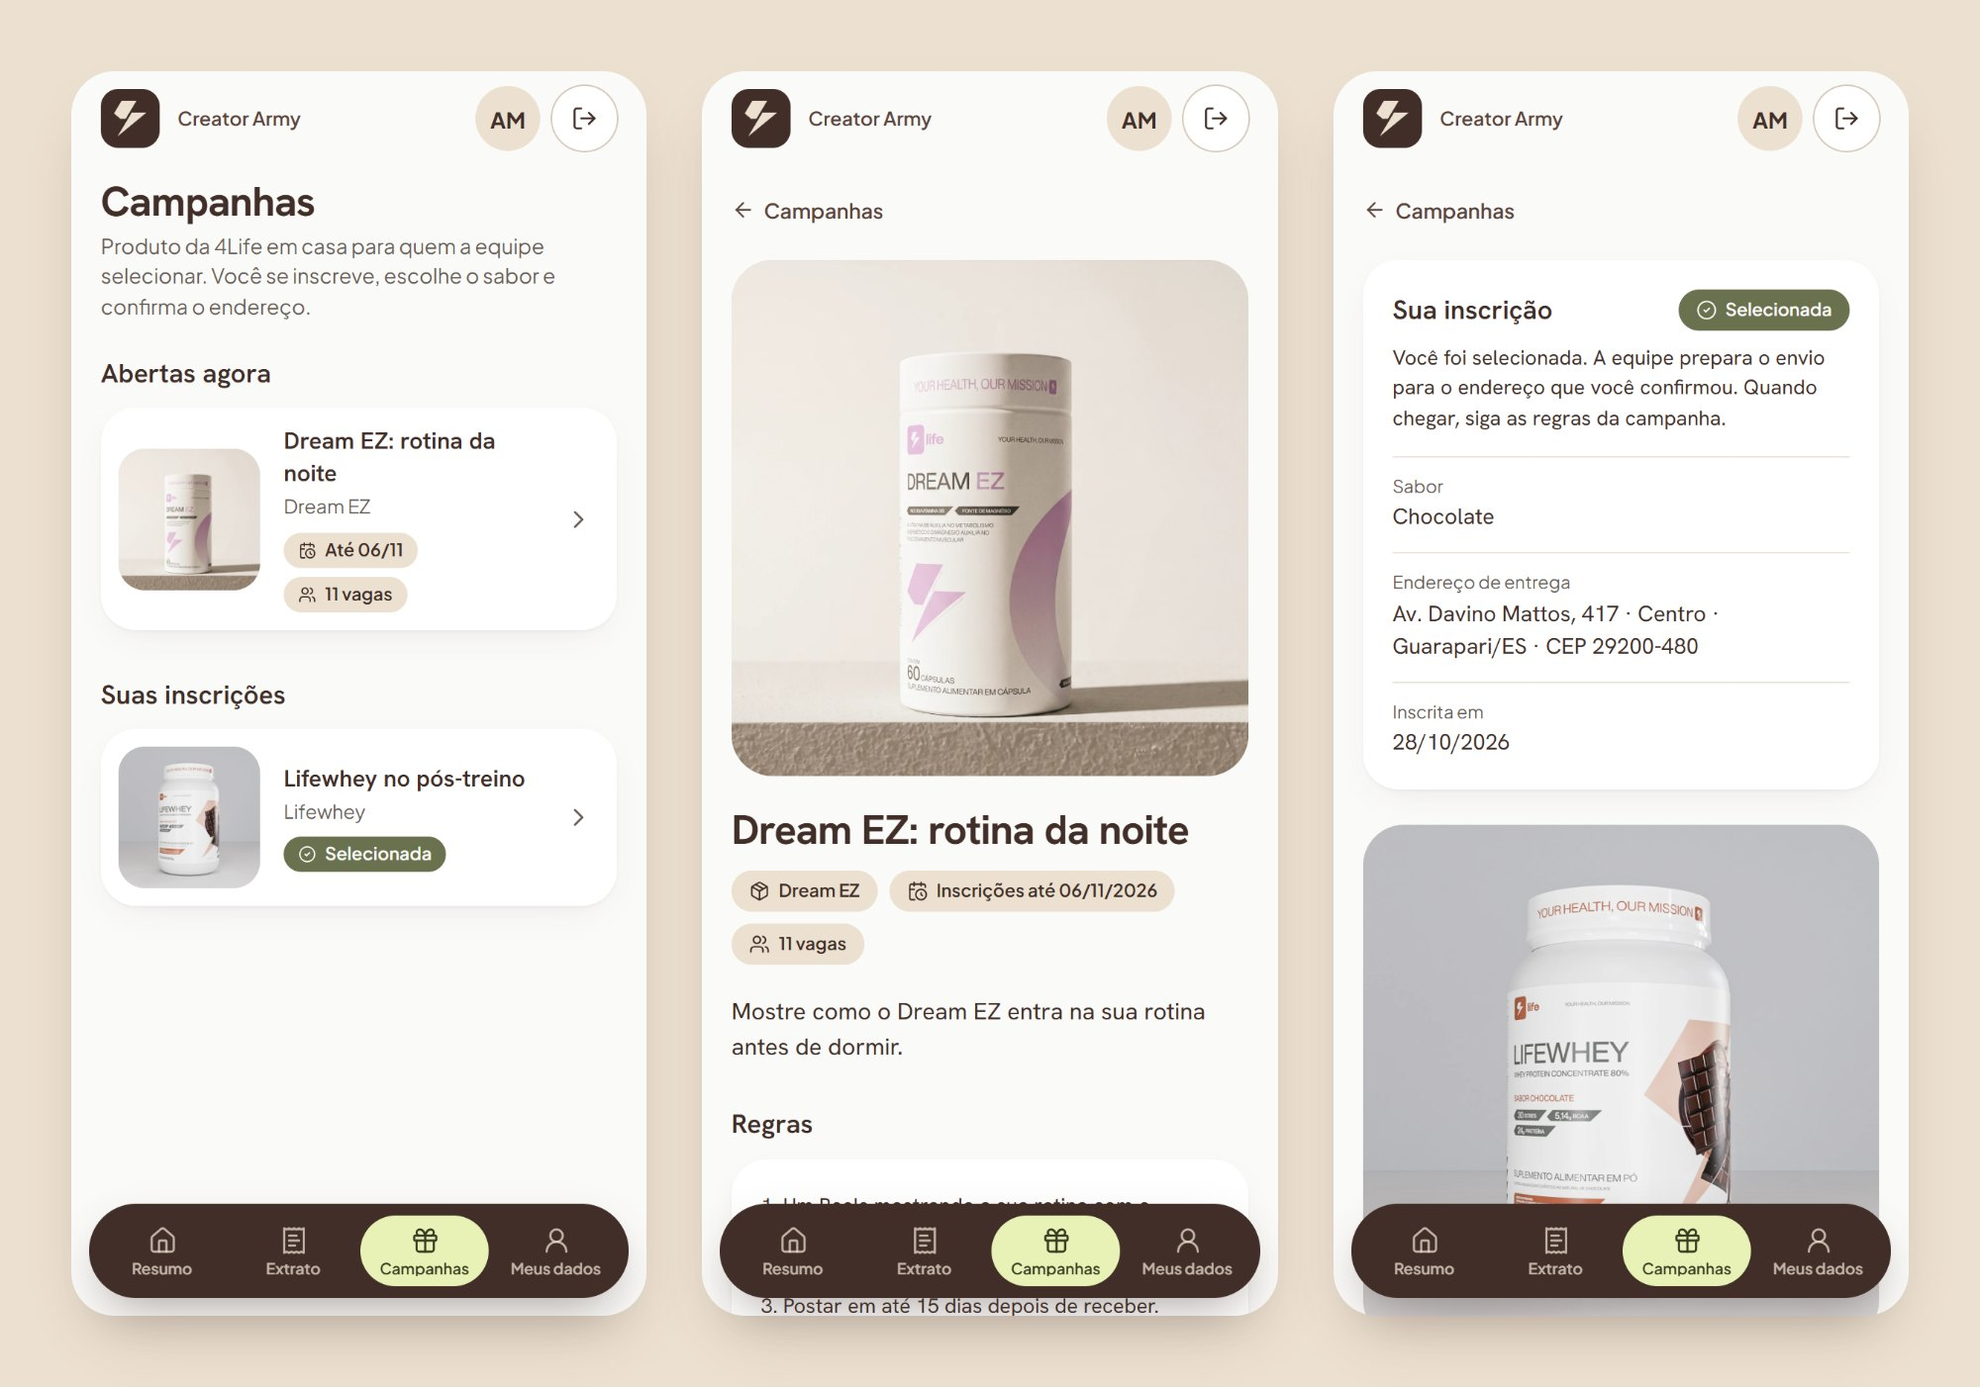
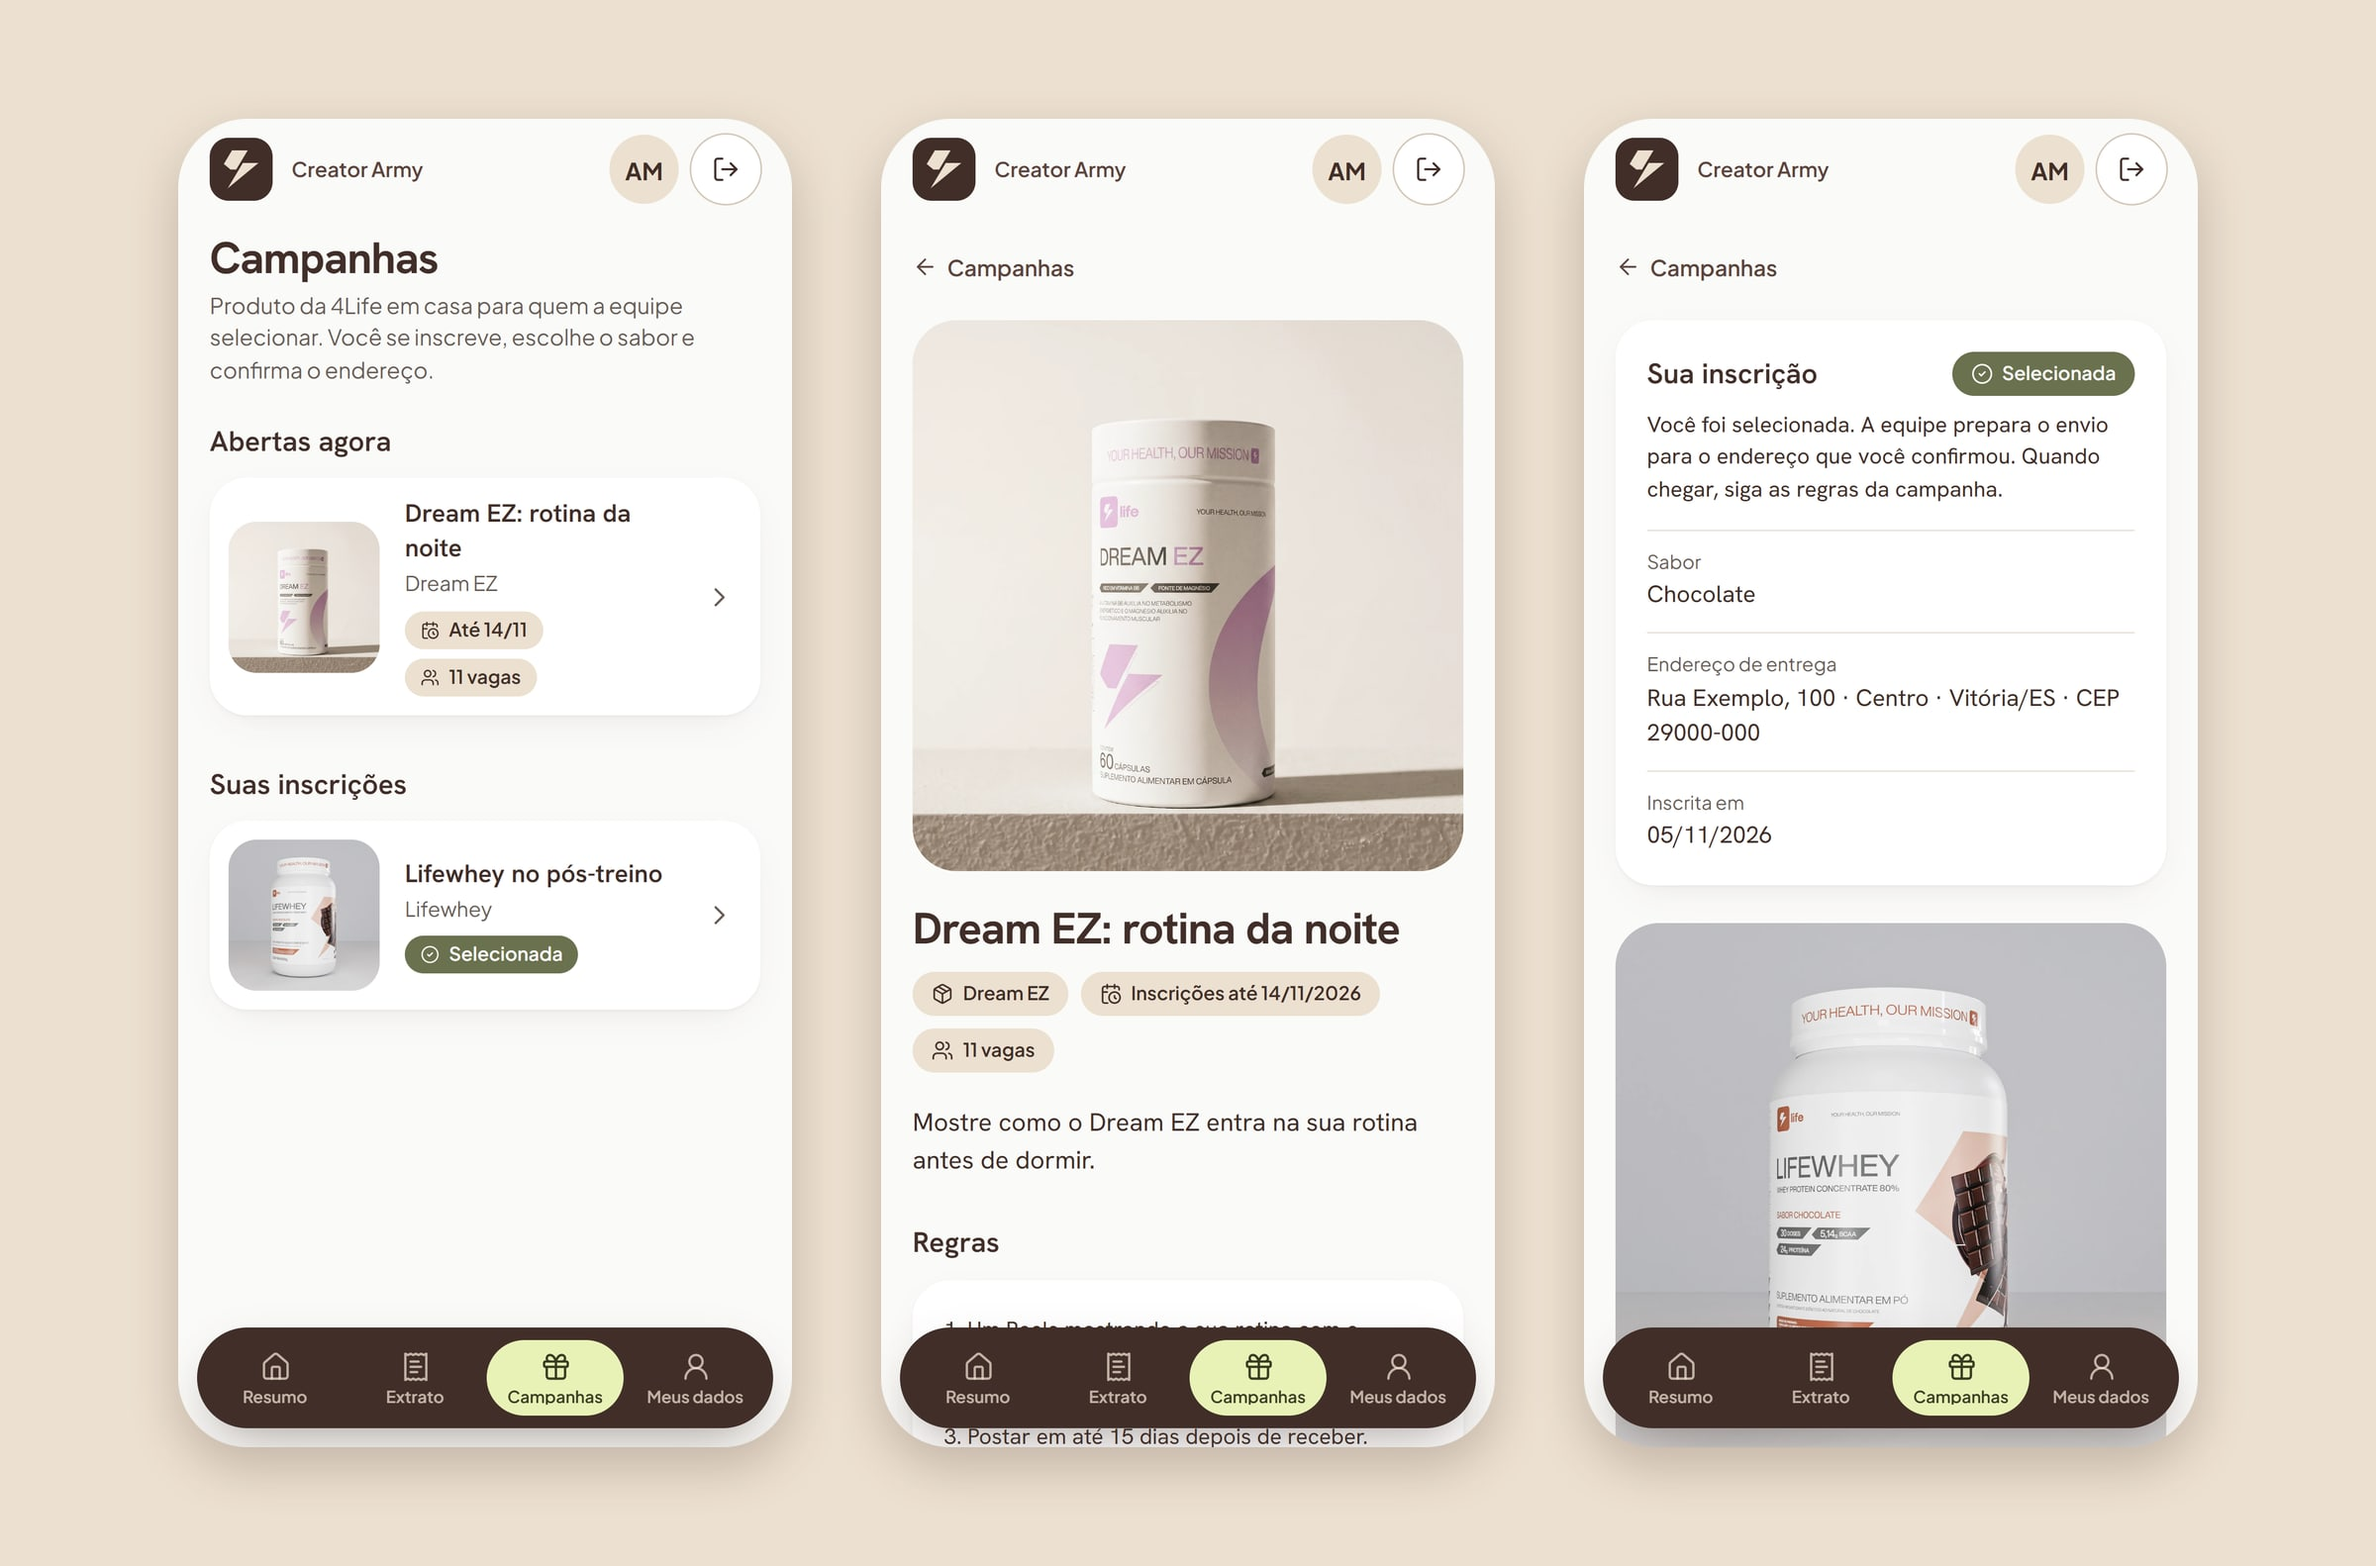
docs: prints novos da versao atual, em alta resolucao
Todas as telas refeitas em 05/11 a partir do main, com o banco de
demonstracao do repositorio (dados inventados). Entram o extrato no
desktop e a ficha da creator na equipe, e uma tabela com o que esta em
producao, pronto ou em desenvolvimento. O registro de pagamento deixa de
aparecer como tela da plataforma nova, porque ainda nao existe nela.

Changed region(s): [[0.031, 0.0306, 0.961, 0.9808], [0.434, 0.2452, 0.558, 0.521]]

diff --git a/README.md b/README.md
@@ -10,7 +10,14 @@ Sou o desenvolvedor responsável pela plataforma, do motor de comissão às tela
 
 ## Telas
 
-As telas da plataforma aparecem com dados de demonstração. O portal e o painel de verdade têm dados de creators reais e não entram aqui.
+Os prints foram tirados em 05/11/2026, da versão atual do código (`main`), rodando localmente com o banco de demonstração do próprio repositório: creators, vendas, CPF, chave Pix e endereço são todos inventados. O portal e o painel de verdade têm dados de creators reais e não entram aqui.
+
+| | Situação em 05/11/2026 |
+|---|---|
+| Landing | **Em produção** em creator.4lifenutrition.com.br |
+| Cadastro, portal da creator, campanhas e painel da equipe | **Prontos**, testados de ponta a ponta, fechados até o corte |
+| Integração com a loja pela API admin (apuração, cupom, Pix, envio) | **Em desenvolvimento**, num PR ainda aberto |
+| Registro de pagamento pela equipe | Existe só no portal antigo. Na plataforma nova o pagamento é Pix manual, e o saque automático está fora do escopo atual |
 
 **Landing.** Feita primeiro para o celular, porque quase todo mundo chega pelo Instagram. Cada tela tem uma ideia só: o cupom que vira comissão, o caminho de uma venda até o painel e o produto que chega em casa nas campanhas. A versão anterior ocupava 15 telas de altura no celular; esta cabe em 7.
 
@@ -18,7 +25,9 @@ As telas da plataforma aparecem com dados de demonstração. O portal e o painel
 
 **Portal da creator.** O resumo responde em 3 segundos quanto há a receber, quando libera e o que está em análise. O extrato soma cada estado no próprio filtro, e cada venda mostra quanto falta para liberar. No celular a navegação fica embaixo, ao alcance do polegar, com o nome em todas as abas.
 
-![Resumo, extrato e dados no celular](assets/22-plataforma-celular.jpg)
+![Resumo, extrato e campanhas no celular](assets/22-plataforma-celular.jpg)
+
+![Extrato no desktop, com o total de cada estado no filtro](assets/28-extrato-desktop.jpg)
 
 **Campanhas de produto.** A creator vê as campanhas abertas, escolhe o sabor, confirma o endereço e se inscreve. Quem já se inscreveu abre a campanha e encontra o resultado no topo, antes da foto e das regras.
 
@@ -32,7 +41,9 @@ As telas da plataforma aparecem com dados de demonstração. O portal e o painel
 |---|---|
 | ![Fila de inscrições](assets/24-equipe-fila.jpg) | ![Ficha da campanha](assets/26-equipe-campanha.jpg) |
 
-![Comissões da equipe](assets/27-equipe-comissoes.jpg)
+| Comissões | Ficha da creator |
+|---|---|
+| ![Comissões da equipe](assets/27-equipe-comissoes.jpg) | ![Ficha da creator, com saldo, acesso e vendas](assets/29-equipe-ficha.jpg) |
 
 ## Como funciona
 
@@ -41,7 +52,7 @@ As telas da plataforma aparecem com dados de demonstração. O portal e o painel
 3. Quem é aprovada recebe por e-mail um link que vale 7 dias e só funciona uma vez. Antes de criar a senha, ela confere a chave Pix que vai receber a comissão.
 4. A creator ganha um cupom só dela, conferido contra todos os cupons da loja. O cupom é uma promoção nativa da loja, então o checkout não precisa de nenhum caminho especial. A venda conta para a creator pelo cupom do pedido, sem cookie nem pixel.
 5. Nas campanhas de produto, a equipe escolhe o produto no catálogo da loja e define regras, período e número de vagas. A creator escolhe o sabor, confirma o endereço e se inscreve. Duas inscrições ao mesmo tempo não furam o limite de vagas, e quem não foi selecionada não volta para a fila. Cada participação selecionada vira um pedido de envio com valor zero dentro da loja, sem disparar os e-mails de compra.
-6. No painel, a equipe tem a fila de cadastros, a ficha de cada creator, as comissões em análise, os membros da equipe e o registro de pagamentos.
+6. No painel, a equipe tem a fila de cadastros, a ficha de cada creator, as comissões em análise e os membros da equipe. O pagamento é um Pix feito pela equipe; no portal antigo ele é registrado no painel, e na plataforma nova essa tela ainda não existe.
 
 ## A comissão
 
